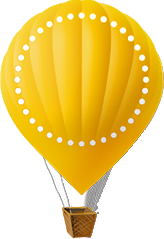
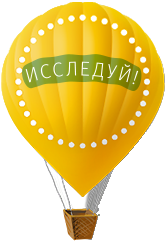
???????? ????????? ???.

diff --git a/www/js/jquery.slideshow.js b/www/js/jquery.slideshow.js
@@ -15,6 +15,8 @@
 			dotSelectedClass: 'b-dot-selected',
 			slideShowObject: 'b-slideshow-objects',
 			firstSlideGallery: '.b-gallery-image:first',
+			balloon: 'slide-balloon',
+			elementsOnIllustration: '.flags',
 			slideBy: 1,
 			slidePerPage: 1,
 			slideWidth: 550,
@@ -38,6 +40,7 @@
 				frameContainer = $(SETTINGS.frameContainer, container),
 				linkOnGallery = $(SETTINGS.linkOnGallery),
 				firstSlideGallery = $(SETTINGS.firstSlideGallery, container),
+				elementsOnIllustration = $(SETTINGS.elementsOnIllustration),
 				slidesCount = slides.length,
 				slidesWidht = SETTINGS.slideWidth,
 				currentPage = 0;
@@ -173,6 +176,8 @@
 			}
 			
 			function switchSlide(){
+				slideBallon();
+				
 				var shift = shiftFrame();
 				if(shift == 7) frameContainer.width(slidesWidht).css('marginLeft','0');
 
@@ -188,6 +193,25 @@
 				
 				manageLinks();
 			}
+
+			function slideBallon(){
+				if(slides.eq(currentPage).hasClass(SETTINGS.balloon)) {
+					elementsOnIllustration.fadeIn(100);
+				}
+			}
 		});
 	};
 })( jQuery );
+
+
+
+
+
+
+
+
+
+
+
+
+

diff --git a/www/css/main.css b/www/css/main.css
@@ -1803,6 +1803,32 @@ SUB {
 		text-align: center;
 	}
 
+/* Balloon */
+.b-balloon {
+	position: relative;
+	z-index: 9999;
+	width: 168px;
+	height: 314px;
+	margin: 243px auto 0;
+}
+	.b-balloon .shadow {
+		background: url("../img/i/l-3.png") no-repeat scroll left top transparent;
+	    height: 228px;
+	    left: 79px;
+	    position: absolute;
+	    top: 80px;
+	    width: 163px;
+	    z-index: 10;
+	}
+	.b-balloon .ball {
+		position: absolute;
+		background: url("../img/i/l-0.png") no-repeat scroll left top transparent;
+	    height: 244px;
+	    left: 0;
+	    top: 0;
+	    width: 168px;
+	}
+
 /* Inwrought */
 .b-inwrought {
 	position: relative;

diff --git a/www/index.html b/www/index.html
@@ -429,7 +429,10 @@
 								</div>
 							</div>
 							<div class="slide slide-balloon">
-								
+								<div class="b-balloon">
+									<i class="shadow" style="opacity: 0.77;"></i>
+									<a class="ball" href="/map.html"></a>
+								</div>
 							</div>
 						</div>
 					</div>

diff --git a/www/js/main.js b/www/js/main.js
@@ -1,6 +1,7 @@
 $(function(){
     $('.b-breadcrumbs .item').dropDownMenu();
-
+    $('.flags').hide();
+    
     var slide_width = 959;
     if($('.l-container').hasClass('l-container-960')) slide_width = 960;
     $('#slideshow').slideShow({
